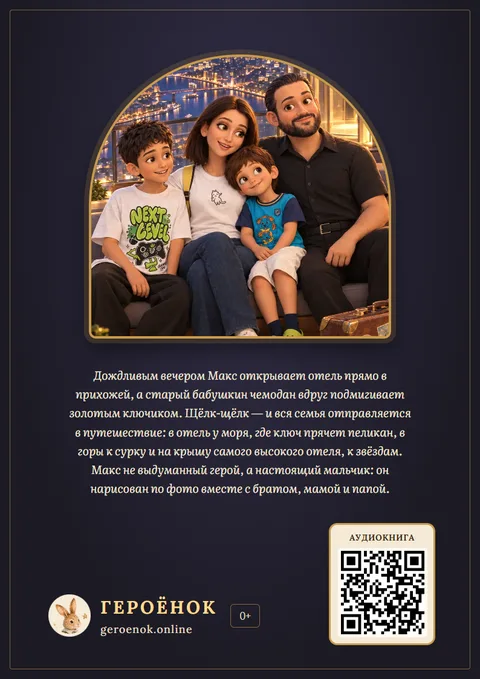
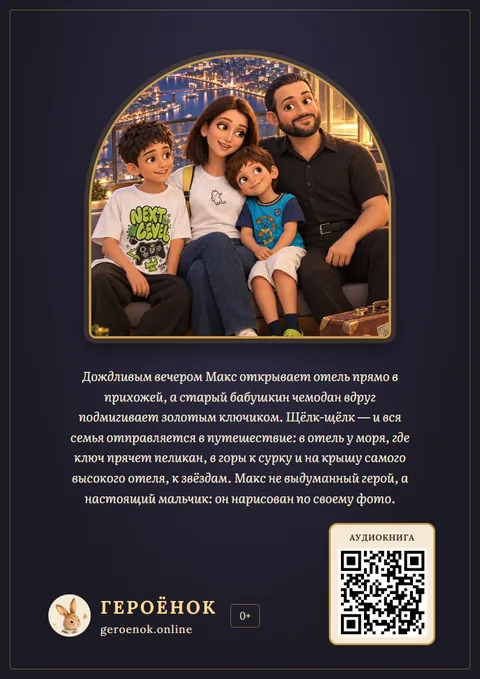
Образец Макса: не обещаем семью по фото
Задняя обложка: «нарисован по своему фото» (было «вместе с братом, мамой и папой» — в анкете фото только ребёнка).
«Примеры»: пояснение под книгой — в образце семья по фото, в заказе остальные по описанию.

Changed region(s): [[0.125, 0.5258, 0.875, 0.7423]]

diff --git a/assets/examples/max-3d/book.js b/assets/examples/max-3d/book.js
@@ -63,6 +63,6 @@ window.SKAZKA_MAX3D_BOOK = {
    "assets/examples/max-3d/coloring-2.webp",
    "assets/examples/max-3d/coloring-3.webp"
   ],
-  "blurb": "Дождливым вечером Макс открывает отель прямо в прихожей, а старый бабушкин чемодан вдруг подмигивает золотым ключиком. Щёлк-щёлк — и вся семья отправляется в путешествие: в отель у моря, где ключ прячет пеликан, в горы к сурку и на крышу самого высокого отеля, к звёздам. Макс не выдуманный герой, а настоящий мальчик: он нарисован по фото вместе с братом, мамой и папой."
+  "blurb": "Дождливым вечером Макс открывает отель прямо в прихожей, а старый бабушкин чемодан вдруг подмигивает золотым ключиком. Щёлк-щёлк — и вся семья отправляется в путешествие: в отель у моря, где ключ прячет пеликан, в горы к сурку и на крышу самого высокого отеля, к звёздам. Макс не выдуманный герой, а настоящий мальчик: он нарисован по своему фото."
  }
 };

diff --git a/examples.html b/examples.html
@@ -537,6 +537,7 @@ section.tight{ padding:56px 0; }
         </div>
         <p class="book3d-tip">Нажмите на книгу — она повернётся, и вы увидите заднюю обложку</p>
         <a class="book3d-link book3d-open" href="book.html?demo=max3d" data-src="book.html?demo=max3d">Открыть книгу ↓</a>
+        <p class="book3d-note">В образце вся семья нарисована по фото. В заказе по фото рисуется ребёнок, остальных — по вашему описанию.</p>
       </div>
     </div>
 

diff --git a/assets/site-extra.css b/assets/site-extra.css
@@ -130,3 +130,4 @@
 .book3d-kind strong{ display:inline-block; margin-bottom:6px; padding:5px 16px; border-radius:999px; font-family:var(--font-display, Georgia, serif); font-size:18px; letter-spacing:.02em; color:#fff8e8; }
 .book3d-kind.is-big strong{ background:#6a4b35; }
 .book3d-kind.is-skazka strong{ background:#34305a; }
+.book3d-note{ max-width:300px; margin:10px 0 0; font-size:13px; line-height:1.45; color:var(--text-soft, #6b5a48); text-align:center; }
